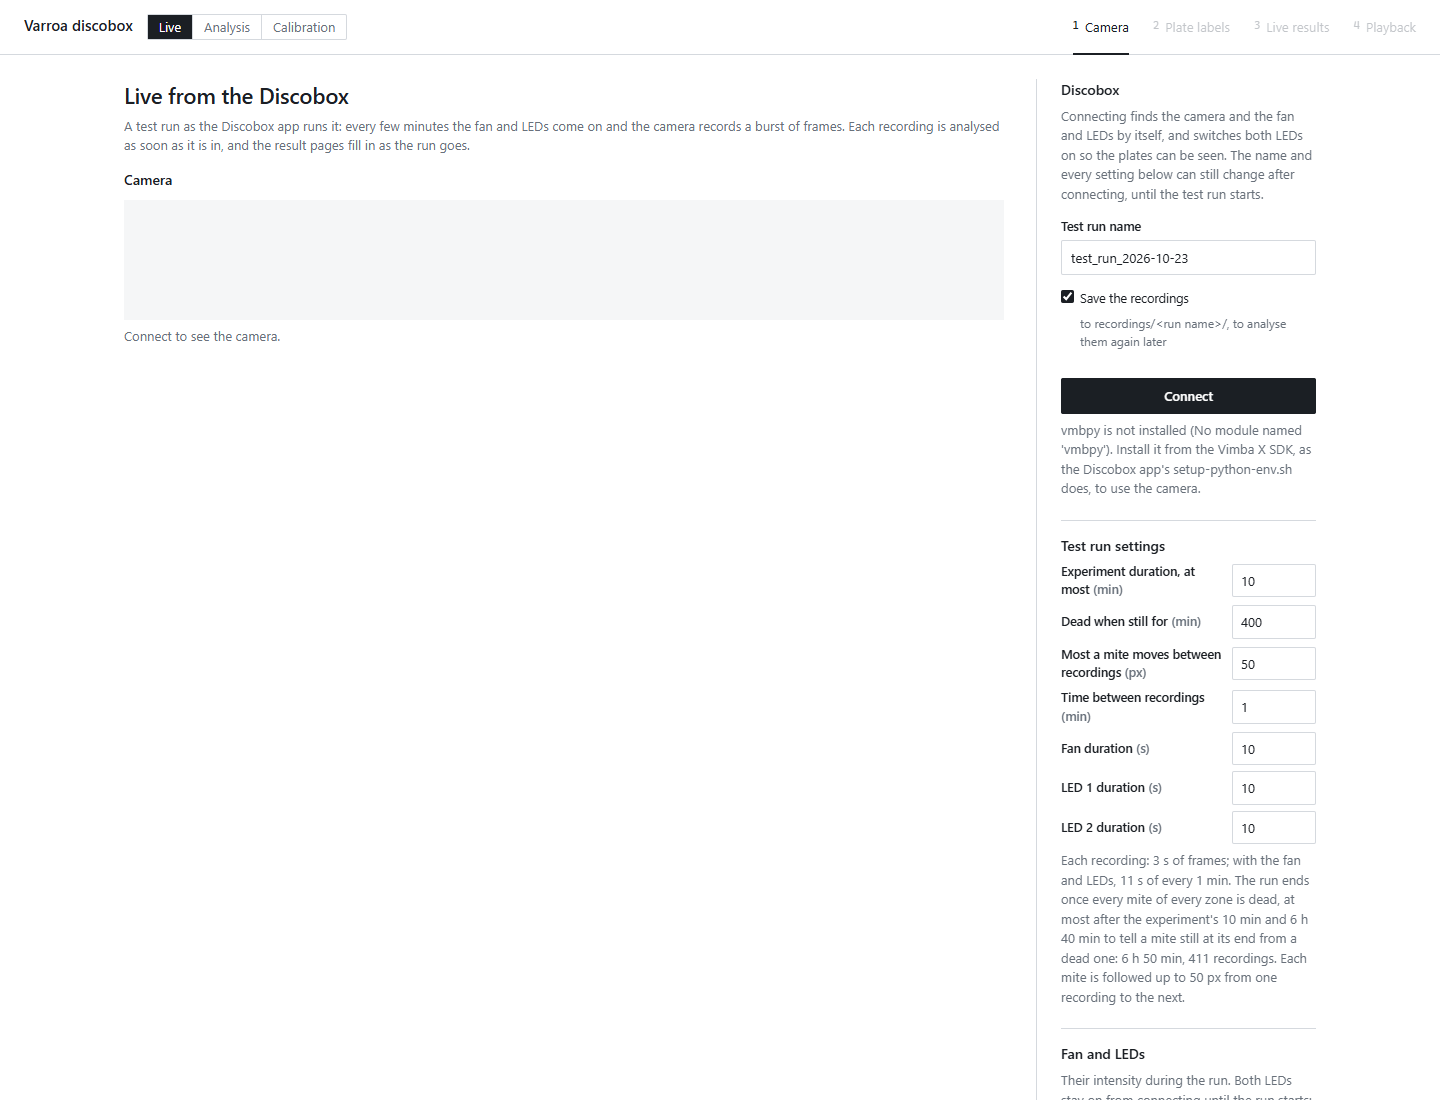
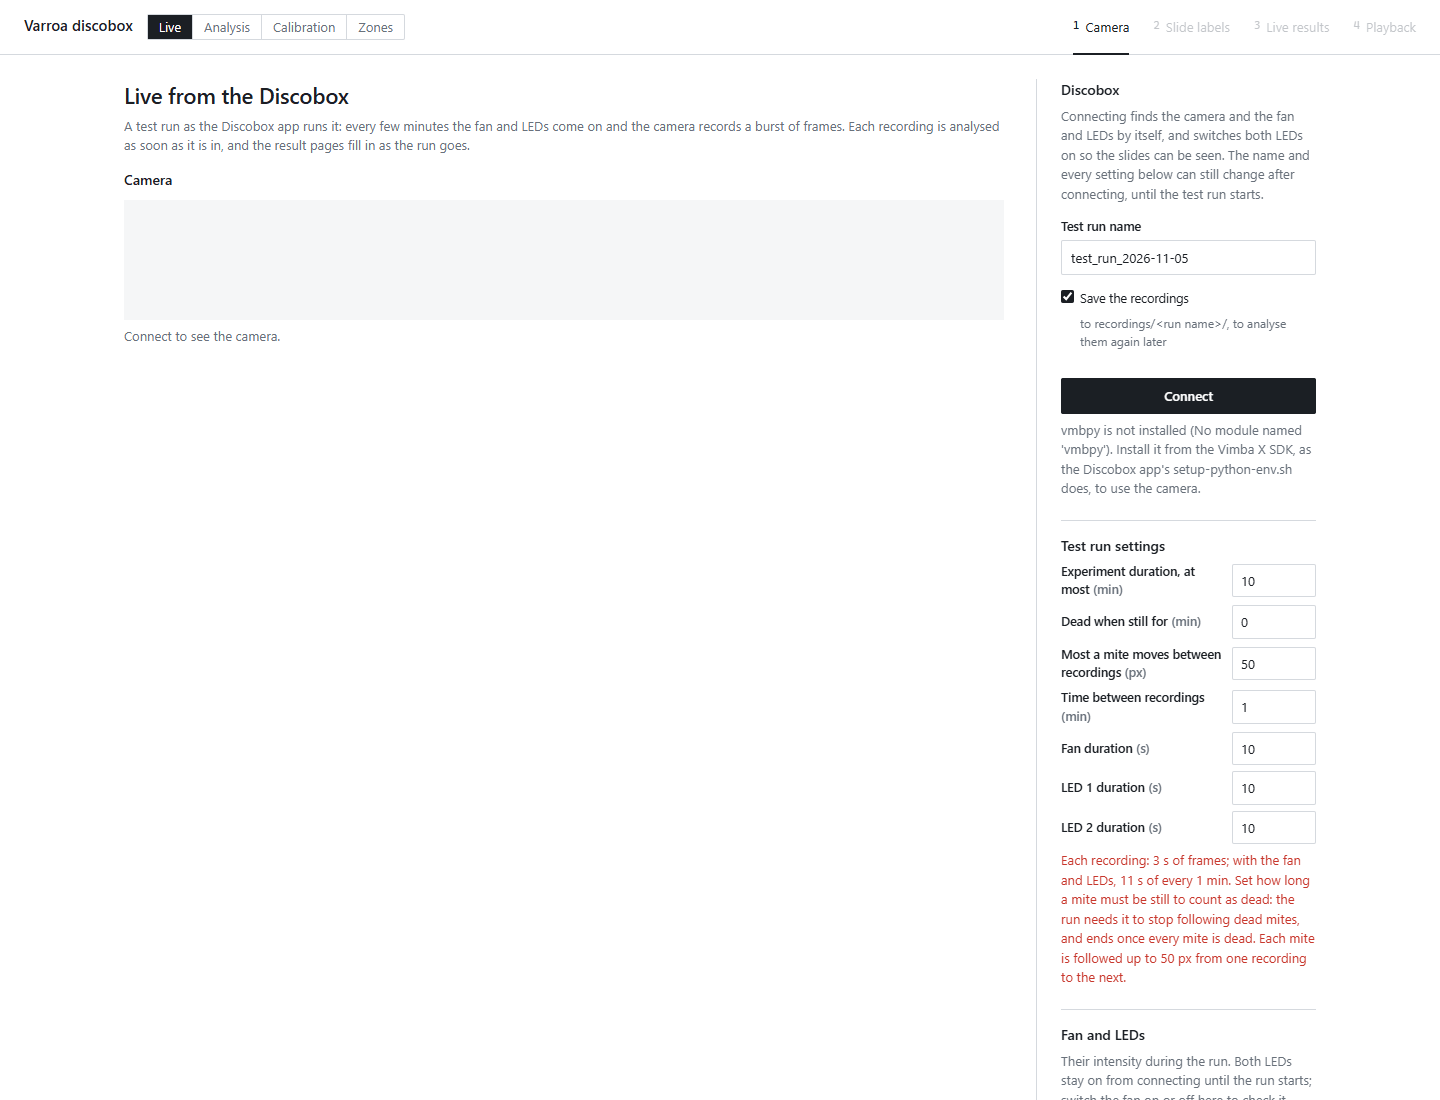
Call the plates glass slides as the user manual does, and retake the screenshots
The page names what it shows as the updated manual does: Slide labels, Read
labels from glass slides, Glass slide map, One/Two zones per slide; plate
shake and the support plate keep their names. The zone mask dropdown gets a
row of its own. The manual describes the zone mask choices and the Zones page
(section 3.10), keeps the time between recordings start to start and the
death time in minutes, and fills in the default threshold's run. The
screenshots are retaken with crops measured on the pages as they are now.

diff --git a/web/static/index.html b/web/static/index.html
@@ -9,13 +9,13 @@
      the ones before it, so the cascade depends on it. -->
 <link rel="stylesheet" href="css/base.css?v=25">
 <link rel="stylesheet" href="css/start-pages.css?v=25">
-<link rel="stylesheet" href="css/plates.css?v=26">
+<link rel="stylesheet" href="css/plates.css?v=27">
 <link rel="stylesheet" href="css/labels.css?v=25">
 <link rel="stylesheet" href="css/results.css?v=26">
 <link rel="stylesheet" href="css/charts.css?v=25">
 <link rel="stylesheet" href="css/calibration.css?v=25">
 <link rel="stylesheet" href="css/narrow-screens.css?v=25">
-<link rel="stylesheet" href="css/live.css?v=25">
+<link rel="stylesheet" href="css/live.css?v=26">
 <link rel="stylesheet" href="css/recordings.css?v=26">
 <link rel="stylesheet" href="css/zones.css?v=1">
 </head>
@@ -40,13 +40,13 @@
   <!-- The three stages of each mode. Each is a link, so the browser's back button works. -->
   <nav id="steps-live" class="steps" aria-label="Live stages">
     <a href="#/live/open" data-step="open"><span class="step-num">1</span> Camera</a>
-    <a href="#/live/label" data-step="label" class="disabled"><span class="step-num">2</span> Plate labels</a>
+    <a href="#/live/label" data-step="label" class="disabled"><span class="step-num">2</span> Slide labels</a>
     <a href="#/live/results" data-step="results" class="disabled"><span class="step-num">3</span> Live results</a>
     <a href="#/live/playback" data-step="playback" class="disabled"><span class="step-num">4</span> Playback</a>
   </nav>
   <nav id="steps-analysis" class="steps" aria-label="Analysis stages" hidden>
     <a href="#/open" data-step="open"><span class="step-num">1</span> Recordings</a>
-    <a href="#/label" data-step="label" class="disabled"><span class="step-num">2</span> Plate labels</a>
+    <a href="#/label" data-step="label" class="disabled"><span class="step-num">2</span> Slide labels</a>
     <a href="#/results" data-step="results" class="disabled"><span class="step-num">3</span> Results</a>
     <a href="#/playback" data-step="playback" class="disabled"><span class="step-num">4</span> Playback</a>
   </nav>
@@ -102,11 +102,11 @@
       <div id="label-plate" class="plate"></div>
     </div>
     <aside class="split-side panel">
-      <h2>Plate labels</h2>
+      <h2>Slide labels</h2>
       <p class="hint">
-        Click a plate to name its group, e.g. the venom extract. The name is typed
-        here, beside the picture, and the plate is outlined in the same colour.
-        <kbd>Enter</kbd> saves, <kbd>Tab</kbd> saves and moves to the next plate,
+        Click a slide to type its label, the group, e.g. the venom extract. The label is typed
+        here, beside the picture, and the slide is outlined in the same colour.
+        <kbd>Enter</kbd> saves, <kbd>Tab</kbd> saves and moves to the next slide,
         <kbd>Esc</kbd> cancels. Labels are saved automatically.
       </p>
       <p class="hint">
@@ -124,13 +124,13 @@
       <div id="zone-editor-slot" class="zone-editor-slot"></div>
       <ul id="group-list" class="group-list"></ul>
       <div class="read-option">
-        <label class="control-check"><input id="read-labels" type="checkbox"> Read the names from the plates</label>
+        <label class="control-check"><input id="read-labels" type="checkbox"> Read labels from glass slides</label>
       </div>
       <!-- Of a folder, and of a test run until it starts. -->
       <div id="zones-option" class="zones-option">
         <label for="zone-mask">Zone mask</label>
         <select id="zone-mask" class="mask-select"></select>
-        <p class="hint">Where the plates and their label areas are: one zone per plate, two (upper and lower half),
+        <p class="hint">Where the slides and their label areas are: found on the first frame (automatic), one zone per slide, two (upper and lower half),
           or a mask drawn on the <a href="#/zones">Zones</a> page. Saved with this recording, for every later analysis of it.</p>
       </div>
       <!-- Of a folder of frames: mites put on the plates after the first recording. -->
@@ -179,7 +179,7 @@
     </div>
     <aside class="split-side panel">
       <h2>Discobox</h2>
-      <p class="hint">Connecting finds the camera and the fan and LEDs by itself, and switches both LEDs on so the plates can be seen.
+      <p class="hint">Connecting finds the camera and the fan and LEDs by itself, and switches both LEDs on so the slides can be seen.
         The name and every setting below can still change after connecting, until the test run starts.</p>
       <div class="live-form">
         <label for="live-run-name">Test run name</label>
@@ -201,7 +201,7 @@
         <div id="live-lights" class="live-lights"></div>
         <p id="live-settings-status" class="hint"></p>
       </div>
-      <button id="live-label-btn" type="button" class="wide" disabled>Next: label the plates</button>
+      <button id="live-label-btn" type="button" class="wide" disabled>Next: label the slides</button>
     </aside>
   </div>
   <!-- filled by RecordingsList (js/app/recordings-list.js) -->
@@ -393,15 +393,15 @@
       <p class="caption">
         Drag on the picture to draw a zone of the kind chosen. Click a zone to pick it, then drag it to move it or
         drag a corner to resize it; <kbd>Delete</kbd> removes it, the arrow keys move it by a pixel
-        (<kbd>Shift</kbd>: ten). Each plate shows the number the analysis gives it, in reading order; a text zone
-        shows the plate whose name is read from it.
+        (<kbd>Shift</kbd>: ten). Each slide shows the number the analysis gives it, in reading order; a text zone
+        shows the slide whose label is read from it.
       </p>
     </div>
     <aside class="split-side panel">
       <h2>Zone masks</h2>
-      <p class="hint">A mask says where the plates are on the picture: <b>mite zones</b>, where mites are found and
+      <p class="hint">A mask says where the slides are on the picture: <b>mite zones</b>, where mites are found and
         scored, and <b>text zones</b>, the printed-label areas beside them, left out of the detection and where a
-        plate's name is read. Choose it for a recording on its label page.</p>
+        slide's label is read. Choose it for a recording on its label page.</p>
       <div class="live-form mask-form">
         <label for="mask-picture">Picture</label>
         <select id="mask-picture" class="mask-select"></select>

diff --git a/web/static/js/labels/label-reader.js b/web/static/js/labels/label-reader.js
@@ -1,4 +1,4 @@
-// The label page's "Read the names from the plates": the server reads what is
+// The label page's "Read labels from glass slides": the server reads what is
 // written beside each plate (Google Gemini, pipeline.read_labels) and the names
 // are filled in where none is typed yet, for the user to check. A setting: off
 // until its box is ticked, and the tick is saved on the server (config.yaml). It
@@ -32,7 +32,7 @@ class LabelReader {
     $("read-labels").disabled = !available;
     // Why the box is greyed out, or what it does, shows when the pointer rests on it.
     $("read-labels").parentElement.title = available
-      ? "Google Gemini reads the writing beside each plate with no name yet (it takes the internet). Check what it read."
+      ? "Google Gemini reads the writing beside each slide with no label yet (it takes the internet). Check what it read."
       : "Takes a free Google Gemini API key (aistudio.google.com/apikey): put GEMINI_API_KEY=… in the file .env in the app's folder and start the app again.";
   }
 
@@ -42,7 +42,7 @@ class LabelReader {
     if (!session || !this.wanted(session) || this.reading === session) return;
     if (!workspace.labelZones().some((zone) => !zone.label.trim())) return;
     this.reading = session;
-    this.status(workspace, "hint", `<span class="spinner"></span> Reading the names on the plates…`);
+    this.status(workspace, "hint", `<span class="spinner"></span> Reading the labels on the slides…`);
     try {
       const { labels } = await post(`/api/session/${sessionId}/read-labels`);
       if (workspace.session !== session) return;  // another folder, or other zones, by now
@@ -53,11 +53,11 @@ class LabelReader {
       if (named.length) await post(`/api/session/${sessionId}/labels`, { labels: workspace.collectLabels() });
       if (workspace.session !== session) return;
       this.status(workspace, "hint", named.length
-        ? `${plural(named.length, "name")} read from the plates: check ${named.length === 1 ? "it" : "them"}.`
-        : "No name could be read from the plates.");
+        ? `${plural(named.length, "label")} read from the slides: check ${named.length === 1 ? "it" : "them"}.`
+        : "No label could be read from the slides.");
       if (ctx === workspace && named.length && location.hash.includes("/label")) labelPage.draw();
     } catch (error) {
-      if (workspace.session === session) this.status(workspace, "hint error", esc(`The names were not read: ${error.message}`));
+      if (workspace.session === session) this.status(workspace, "hint error", esc(`The labels were not read: ${error.message}`));
     } finally {
       if (this.reading === session) this.reading = null;
     }

diff --git a/web/static/js/zones/zone-maker.js b/web/static/js/zones/zone-maker.js
@@ -191,7 +191,7 @@ class ZoneMaker {
       if (zone.type === "text") {
         // a text zone names one plate at most (ZoneManager.text_zone_for())
         const plate = textOf.indexOf(index);
-        tag = plate >= 0 && ids[plate] != null ? `name of ${ids[plate]}` : "no plate";
+        tag = plate >= 0 && ids[plate] != null ? `label of ${ids[plate]}` : "no slide";
       }
       const font = 13 * scale;
       // a plate's number at its top, a text zone's at its bottom: apart where they lie side by side
@@ -219,7 +219,7 @@ class ZoneMaker {
     const without = this.numbers ? this.zones.filter((z, i) => z.type === "mite" && this.numbers.text_of[i] == null).length : 0;
     const outside = this.picture ? this.zones.filter((z) => z.x2 > this.picture.width || z.y2 > this.picture.height).length : 0;
     const notes = [`${plural(mites, "mite zone")}, ${plural(texts, "text zone")}.`];
-    if (mites && without) notes.push(`${without} without a text zone beside it: its name cannot be read from the plate.`);
+    if (mites && without) notes.push(`${without} without a text zone beside it: its label cannot be read from the slide.`);
     if (outside) notes.push(`${plural(outside, "zone")} reach${outside === 1 ? "es" : ""} past this picture: is it of the same camera?`);
     $("mask-count").textContent = notes.join(" ");
     $("mask-duplicate").disabled = $("mask-remove").disabled = this.selected == null;
@@ -395,7 +395,7 @@ class ZoneMaker {
 
   async deleteMask() {
     const name = this.loaded;
-    if (!name || !confirm(`Delete the mask ${name}? The recordings that use it go back to one zone per plate.`)) return;
+    if (!name || !confirm(`Delete the mask ${name}? The recordings that use it go back to one zone per slide.`)) return;
     try {
       const response = await fetch(`/api/masks/${encodeURIComponent(name)}`, { method: "DELETE" });
       this.masks = (await readJson(response, "The mask could not be deleted")).masks;

diff --git a/web/static/js/results/overview-page.js b/web/static/js/results/overview-page.js
@@ -35,7 +35,7 @@ class OverviewPage extends ResultsPage {
     ${this.laterSection()}
 
     <div class="clip-block">
-      ${this.clipFigure("result-plate", 1, `Plate map · recording at ${this.shownTime()}`,
+      ${this.clipFigure("result-plate", 1, `Glass slide map · recording at ${this.shownTime()}`,
         `The recording at ${this.shownTime()}, with every detected mite ${movingBadge(true)} or ${movingBadge(false)} in it.
         Choose a recording above, or click a time in a chart. Select a zone to open it.`, "plate")}
     </div>
@@ -75,7 +75,7 @@ class OverviewPage extends ResultsPage {
     ${activity.html(6)}
 
     ${section("Files", `<ul class="files">
-        <li><a href="${ctx.fileUrl(results.excel)}" download>${esc(results.excel)}</a> <span class="muted">when each mite last moved, every score, a picture of the plate with the mite IDs, and the group summaries</span></li>
+        <li><a href="${ctx.fileUrl(results.excel)}" download>${esc(results.excel)}</a> <span class="muted">when each mite last moved, every score, a picture of the slides with the mite IDs, and the group summaries</span></li>
       </ul>
       <p class="caption">${this.resultsFolderNote()}Every chart above can be downloaded as SVG or PNG from the buttons beside its title.</p>`)}`;
     this.wire(body);

diff --git a/web/static/js/app/recordings-list.js b/web/static/js/app/recordings-list.js
@@ -63,7 +63,7 @@ class RecordingsList {
       : !list.length ? `<p class="muted">Nothing recorded yet. A test run appears here once its first recording is saved.</p>`
         : `<div class="table-wrap"><table class="recordings">
             <thead><tr><th>Recording</th><th>Recorded</th><th class="num">Recordings</th><th>Settings</th>
-              <th>Plates</th><th>Results</th><th></th></tr></thead>
+              <th>Slides</th><th>Results</th><th></th></tr></thead>
             <tbody>${list.map((r) => this.row(r)).join("")}</tbody>
           </table></div>`}`;
   }
@@ -141,7 +141,7 @@ class RecordingsList {
 
   // The plate labels, the "not a mite" marks and the ground truth kept with it.
   platesText(r) {
-    const main = r.n_labelled_plates ? `${plural(r.n_labelled_plates, "plate")} labelled` : `<span class="muted">not labelled</span>`;
+    const main = r.n_labelled_plates ? `${plural(r.n_labelled_plates, "slide")} labelled` : `<span class="muted">not labelled</span>`;
     const sub = [];
     if (r.groups.length) {
       const groups = r.groups.join(", ");

diff --git a/web/static/js/calibration/report-page.js b/web/static/js/calibration/report-page.js
@@ -144,7 +144,7 @@ class ReportPage {
     ${testing ? this.testReport(r) : this.calibrateReport(r)}
     ${testing ? section("Survival rate per group", `<div id="group-legend" class="legend"></div><div id="group-moving" class="group-cards"></div>
       <p class="caption">Each group's Kaplan–Meier survival rate, by the ground truth and as the detector's calls at the threshold in use${r.benchmark ? " and the benchmark's" : ""} would have it, as in Fig. 2;
-        the number is the group's mites in the study by the ground truth. Groups are the plate labels.${poolNote(r)}</p>`) : ""}
+        the number is the group's mites in the study by the ground truth. Groups are the slide labels.${poolNote(r)}</p>`) : ""}
     ${section("Files", `<ul class="files">
       <li><a href="${cal.fileUrl(r.excel)}" download>${esc(r.excel)}</a>
         <span class="muted">every labelled mite-recording with its score and outcome, the fraction moving per recording, the precision-recall curve and the summary</span></li></ul>`)}`;

diff --git a/web/static/js/results/mite-page.js b/web/static/js/results/mite-page.js
@@ -71,7 +71,7 @@ class MitePage extends ResultsPage {
             ${STATES.map((state) => `<option value="${state}"${state === this.callState(mite, i) ? " selected" : ""}>${STATE_NAMES[state]}</option>`).join("")}
           </select>`}</td></tr>`).join("")}</tbody>
       </table></div>
-      <p class="caption">A mite <i>gone</i> in a recording, e.g. one that fell off the plate, is censored there: it counts neither as moving nor as still.
+      <p class="caption">A mite <i>gone</i> in a recording, e.g. one that fell off the slide, is censored there: it counts neither as moving nor as still.
         One gone from a recording on leaves the survival numbers at the recording before, alive as far as is known, unless it counted as dead by then.</p>`)}`;
     this.wire(body);
     review.wireMite(body, mite);

diff --git a/web/static/js/live/add-mites.js b/web/static/js/live/add-mites.js
@@ -103,7 +103,7 @@ class AddMites {
   draw() {
     const holder = this.holder;
     holder.hidden = !this.message && !this.busy && !this.active;
-    holder.innerHTML = this.busy && !this.active ? `<p class="hint"><span class="spinner"></span> Lighting the plates and looking for mites…</p>`
+    holder.innerHTML = this.busy && !this.active ? `<p class="hint"><span class="spinner"></span> Lighting the slides and looking for mites…</p>`
       : this.active ? `<p class="hint">Mites found that are not followed yet: <a href="#/live/label">choose those to add</a>.
           <button type="button" class="secondary small" data-add-action="cancel">Cancel</button></p>`
       : `<p class="hint">${esc(this.message)}</p>`;

diff --git a/web/static/js/live/live-panel.js b/web/static/js/live/live-panel.js
@@ -26,7 +26,7 @@ class LivePanel {
       <button id="live-new-btn" type="button" class="secondary small" hidden>New test run</button>
     </div>
     <div class="row">
-      <button id="live-add-btn" type="button" class="secondary small" title="Light the plates between two recordings and follow mites not found so far">Add mites</button>
+      <button id="live-add-btn" type="button" class="secondary small" title="Light the slides between two recordings and follow mites not found so far">Add mites</button>
       <button id="live-truth-btn" type="button" class="secondary small">Ground truth</button>
       <button id="live-poke-btn" type="button" class="secondary small">Poke test</button>
     </div>

diff --git a/web/static/css/live.css b/web/static/css/live.css
@@ -15,6 +15,7 @@
 .zones-option { display: grid; grid-template-columns: minmax(0, 1fr) 84px; gap: 4px 10px; align-items: center; margin-top: 20px; }
 .zones-option label { font-size: 12.5px; color: var(--ink); font-weight: 500; }
 .zones-option .hint { grid-column: 1 / -1; margin: 0; font-size: 12px; }
+.zones-option .mask-select { grid-column: 1 / -1; }  /* a mask's title is too long for the number column */
 .read-option { margin-top: 20px; }
 .read-option .control-check { margin-top: 0; font-size: 12.5px; font-weight: 500; }
 .live-heading { margin-top: 22px; padding-top: 14px; border-top: 1px solid var(--rule); }

diff --git a/web/static/js/results/survival-table.js b/web/static/js/results/survival-table.js
@@ -31,7 +31,7 @@ class SurvivalTable {
       table.hidden = true;
       caption.innerHTML = test.controls.length
         ? "The zones ticked as negative control hold no mite seen moving, so there is nothing to compare with."
-        : `No zone is ticked as negative control. On the <a href="${ctx.href("label")}">label page</a>, click a plate and tick <i>negative control</i>
+        : `No zone is ticked as negative control. On the <a href="${ctx.href("label")}">label page</a>, click a slide and tick <i>negative control</i>
         to compare the survival of every group with it.`;
       return;
     }

diff --git a/web/static/js/live/live-setup-page.js b/web/static/js/live/live-setup-page.js
@@ -108,7 +108,7 @@ class LiveSetupPage {
       button.setAttribute("aria-pressed", String(Boolean(state && state.on)));
     });
     $("live-label-btn").disabled = !connected;
-    $("live-label-btn").textContent = live.started ? "Show the live results" : "Next: label the plates";
+    $("live-label-btn").textContent = live.started ? "Show the live results" : "Next: label the slides";
     $("live-feed-note").textContent = connected ? "" : "Connect to see the camera.";
     const shown = connected && $("live-feed").src;
     $("live-feed").hidden = !shown;
